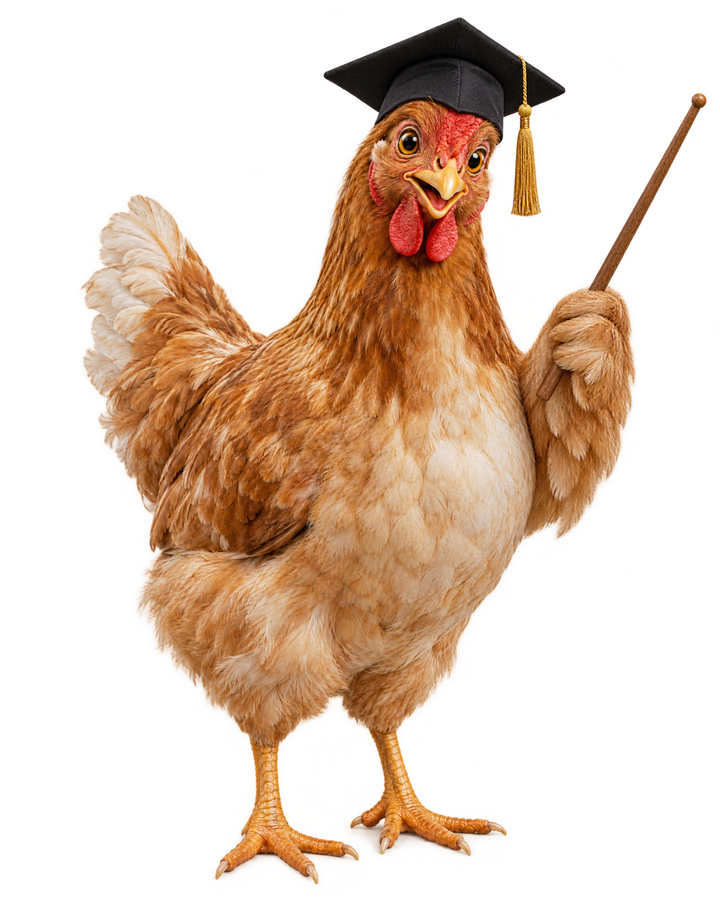
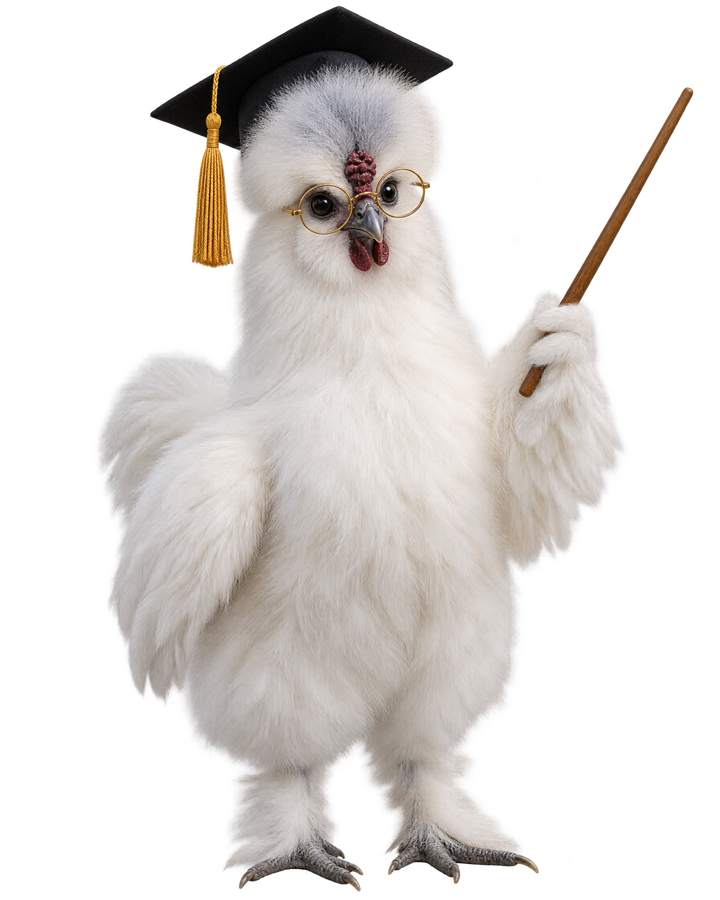
🎓 최꼬박사를 최꼬꼬와 다른 모습(하얀 솜털 닭+금테 안경)·파란 카드 색으로 변경

diff --git a/index.html b/index.html
@@ -4987,9 +4987,9 @@ function renderKkokoTab(){
   // (216px), 화면이 좁으면 말풍선이 그 아래로 자연스럽게 줄바꿈되도록
   // flex-wrap을 둔다.
   const charBlock = `
-  <div class="card" style="flex:0 0 244px;text-align:center;padding:14px 10px;background:linear-gradient(135deg,#FFF8E1,#FFECB3)">
+  <div class="card" style="flex:0 0 244px;text-align:center;padding:14px 10px;background:${premium?"linear-gradient(135deg,#E3F2FD,#BBDEFB)":"linear-gradient(135deg,#FFF8E1,#FFECB3)"}">
     ${kkokoCharacterBlock(st.busy, 216)}
-    <div style="font-size:14px;font-weight:800;color:#7A5C00;margin-top:6px">${esc(name)}</div>
+    <div style="font-size:14px;font-weight:800;color:${premium?"#0D47A1":"#7A5C00"};margin-top:6px">${esc(name)}</div>
   </div>`;
 
   const msgs = st.messages.length ? st.messages : [{ role:"chicken", text: kkokoGreeting() }];
